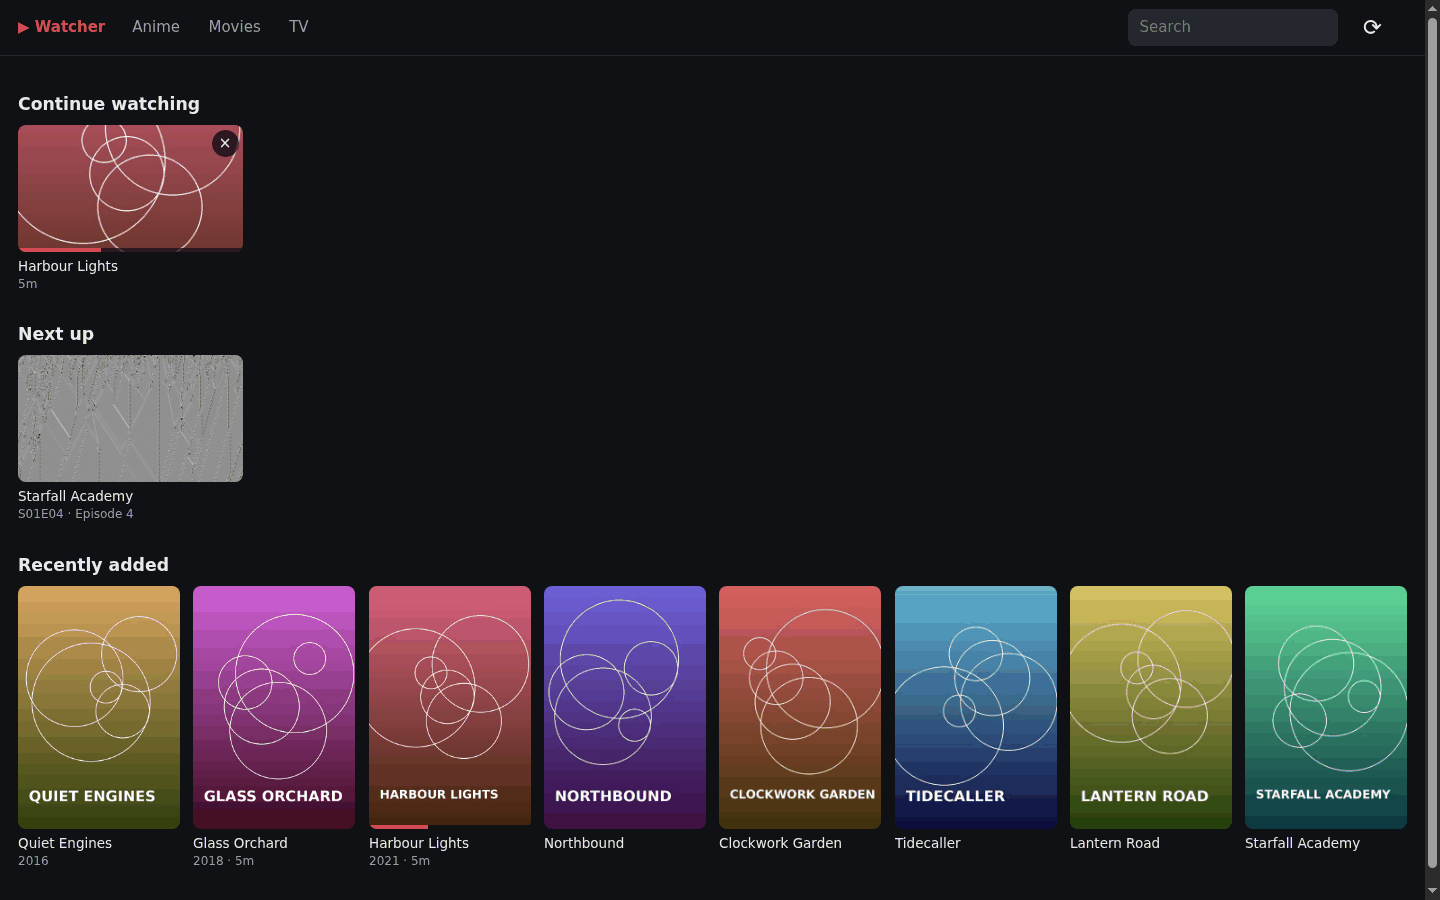
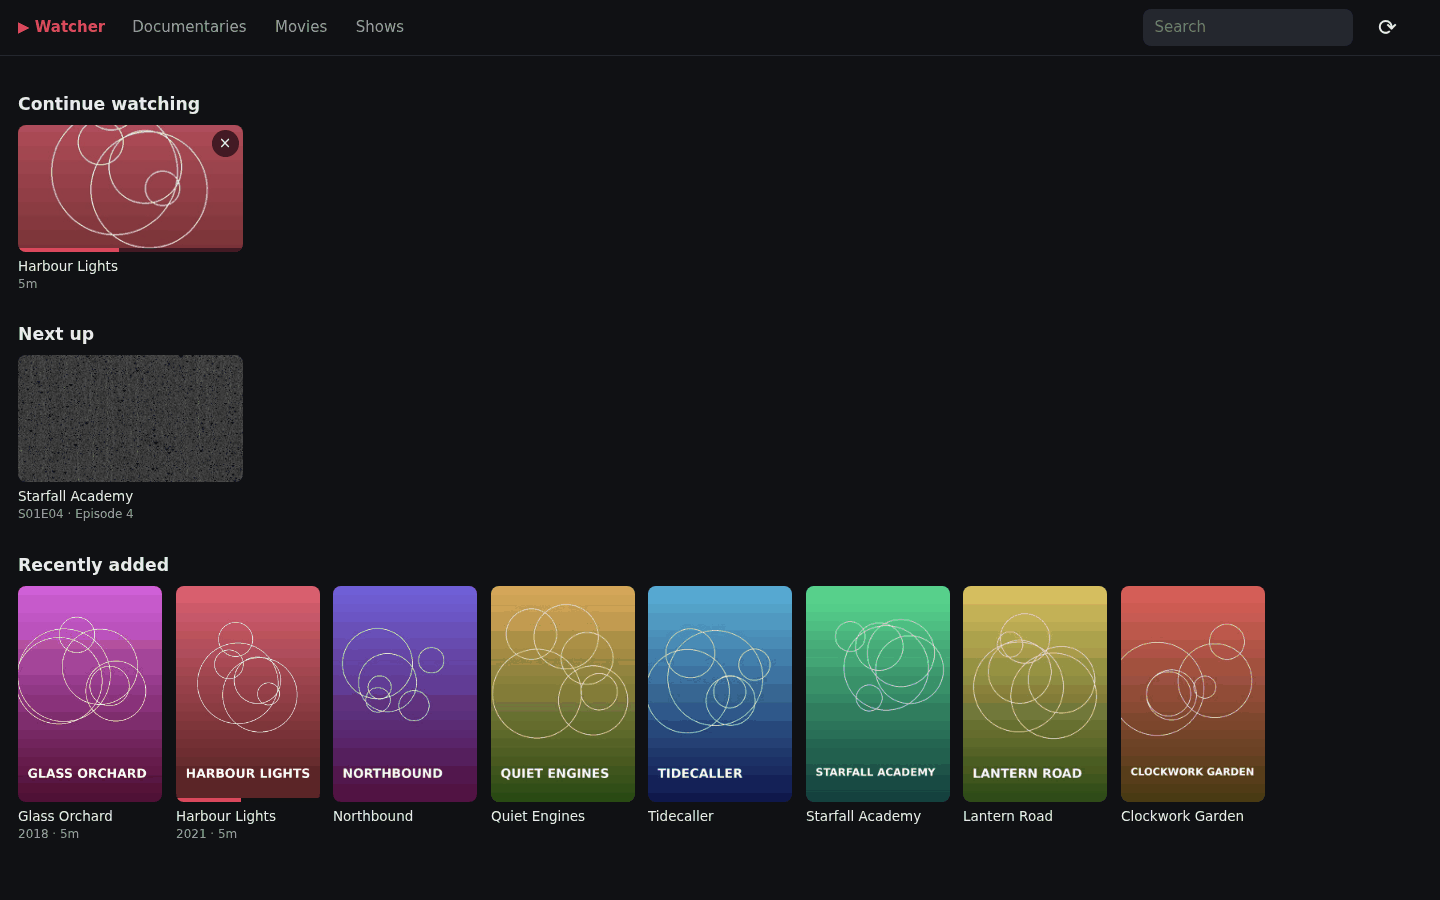
README: drop the Python upgrade notes, use generic names in examples and screenshots
Removes the 'Upgrading from the Python version' section, uses placeholder titles and a Shows library in the Naming examples, and re-shoots the four screenshots with libraries named Documentaries, Movies and Shows instead of Anime/Movies/TV.

diff --git a/README.md b/README.md
@@ -78,15 +78,6 @@ no checkout to build from and no `.env`. The Gitea workflow in
 Item ids are derived from the path inside the library, so wiping `/cache`
 or changing the host mount path keeps your watch progress.
 
-**Upgrading from the Python version.** Earlier images kept the same data in
-SQLite (`/cache/library.db`, `/config/state.db`). On its first start the Go
-version imports both, so watch progress, probe results and metadata carry
-over without a rescan, and existing logins stay valid. A successful import
-of `state.db` is marked by `/config/state.db.imported`; if it fails, the
-error is logged and it is tried again on the next start. The old files are
-left in place but no longer updated: progress recorded after the switch is
-not seen by an older image.
-
 ### Libraries
 
 By default every folder directly under `/media` is a library
@@ -139,13 +130,13 @@ LIBRARIES=Anime=/media/anime:shows;TV=/media/tv:shows;Movies=/media/movies:movie
 Jellyfin/Kodi naming works as-is, and so do typical release and fansub names:
 
 ```
-Anime/Frieren (2023)/Season 01/Frieren - S01E05 - Title.mkv
-Anime/Frieren (2023)/Specials/Frieren - S00E01.mkv
-Anime/Mushishi/Season 2/[Group] Mushishi - 03 [BD 1080p].mkv
-Anime/Show.Name.S02.1080p.BluRay-GRP/Show.Name.S02E03.1080p.BluRay-GRP.mkv
-Anime/Some Show/05 - Title.mkv           (bare numbers inside a series folder)
-Anime/[SubsPlease] Loose Show - 12 (1080p).mkv   (joins "Loose Show" folder if one exists)
-Movies/Heat (1995)/Heat (1995).mkv
+Shows/Example Show (2023)/Season 01/Example Show - S01E05 - Title.mkv
+Shows/Example Show (2023)/Specials/Example Show - S00E01.mkv
+Shows/Other Show/Season 2/[Group] Other Show - 03 [BD 1080p].mkv
+Shows/Show.Name.S02.1080p.BluRay-GRP/Show.Name.S02E03.1080p.BluRay-GRP.mkv
+Shows/Some Show/05 - Title.mkv           (bare numbers inside a series folder)
+Shows/[Group] Loose Show - 12 (1080p).mkv   (joins "Loose Show" folder if one exists)
+Movies/Some Movie (1995)/Some Movie (1995).mkv
 ```
 
 - Series = the top-level folder inside the library, however deep the
@@ -280,7 +271,7 @@ an MP4 with 8-bit H.264 video at the source resolution (`MAX_HEIGHT` and
 `VIDEO_CRF` only apply to live transcodes; the copy uses CRF 18 with
 `X264_PRESET`, HDR is tone-mapped) and a single audio track: the preferred
 language (`AUDIO_LANGUAGES`), else English, else the track the player
-would pick anyway. Playback starts right away with the live transcode as before; once
+would pick anyway. Playback starts right away with the live transcode; once
 the copy is ready the player uses it as a direct-play file (seeking with
 byte ranges, no CPU at all).
 
